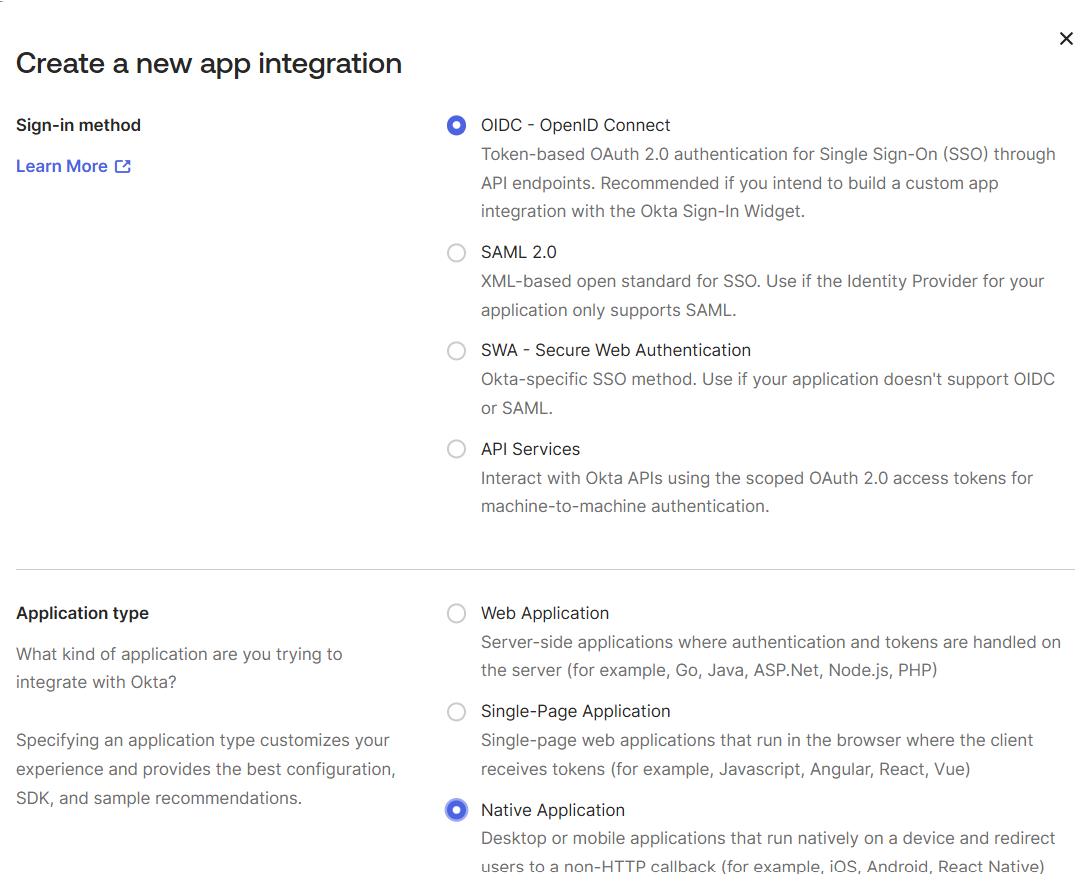
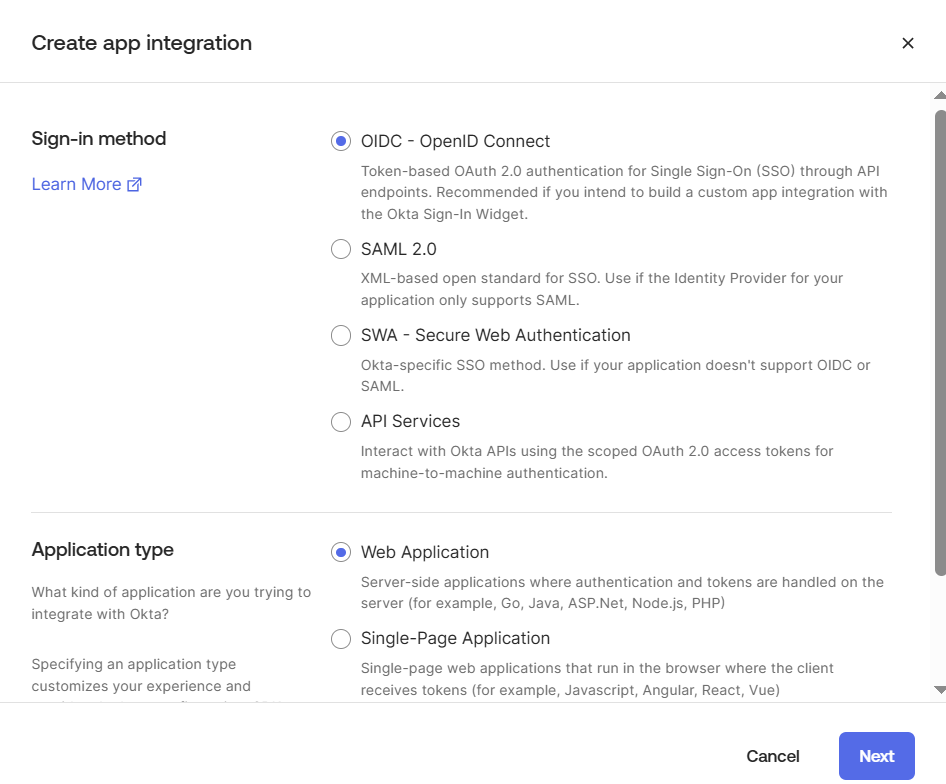
docs(okta): use default AS, add access policy, update JWT flow
- setup: add access policy and rule on the default authorization server
- setup: register Web app instead of Native app, drop password-only auth
- setup: soften Client Credentials note per reviewer feedback
- authorization-code: use /oauth2/default/v1 endpoints for authorize, token, logout
- access-token: use /oauth2/default issuer and JWKS, api://default audience
- access-token: add error message table for 401 cases observed in testing
- add screenshots for access policy and rule
- remove outdated okta-auth-policy.png

Addresses reviewer feedback on PR #969.

diff --git a/assets/kgw-docs/pages/security/okta/access-token.md b/assets/kgw-docs/pages/security/okta/access-token.md
@@ -2,15 +2,18 @@ Protect a route by validating an access token that the client already holds. Kga
 
 ## Before you begin
 
-Complete the [Okta setup]({{< link-hextra path="/security/oauth/okta/setup/" >}}) page. This flow needs the Okta application, the test user, the `Backend`, and the `BackendConfigPolicy` that it creates.
+Complete the [Okta setup]({{< link-hextra path="/security/oauth/okta/setup/" >}}) page. This flow needs the Okta application, the test user, the [access policy and rule on the default authorization server]({{< link-hextra path="/security/oauth/okta/setup/#configure-default-as" >}}), the `Backend`, and the `BackendConfigPolicy` that it creates.
 
 Unlike the authorization code flow, this flow does not need the client secret in a Kubernetes Secret, because the gateway never exchanges an authorization code. It also works over plain HTTP, because it does not use cookies.
+
+> [!NOTE]
+> This guide validates tokens issued by the default custom authorization server at `/oauth2/default`. The Org authorization server issues opaque tokens, which are not JWTs and cannot be validated. If your tokens do not contain the expected `iss` and `aud` claims, confirm that your Okta application requests tokens from the default authorization server, not the Org server.
 
 ## Configure access token validation
 
 Create a `GatewayExtension` that tells the gateway how to validate tokens, and a `TrafficPolicy` that enforces it on a route.
 
-1. Create a GatewayExtension for JWT validation. The `issuer` must match the token's `iss` claim from Okta.
+1. Create a GatewayExtension for JWT validation. The `issuer` must match the token's `iss` claim from Okta, and the `audiences` list must include the token's `aud` claim.
 
 ```yaml
 kubectl apply -f- <<EOF
@@ -21,6 +24,7 @@ metadata:
   namespace: {{< reuse "kgw-docs/snippets/namespace.md" >}}
 spec:
   jwt:
+    validationMode: Strict
     providers:
       - name: okta
         issuer: https://YOUR_OKTA_DOMAIN/oauth2/default
@@ -31,23 +35,22 @@ spec:
               kind: Backend
               name: okta
               namespace: {{< reuse "kgw-docs/snippets/namespace.md" >}}
-            url: https://YOUR_OKTA_DOMAIN/oauth2/v1/keys
+            url: https://YOUR_OKTA_DOMAIN/oauth2/default/v1/keys
         audiences:
-          - YOUR_API_AUDIENCE
+          - api://default
 EOF
 ```
 
 | **Field** | **Description** |
 | --- | --- |
 | `name` | A required, unique name for the provider. The resource is rejected without it. |
-| `issuer` | Must match the `iss` claim in your tokens exactly. Okta's `iss` claim is derived from your Okta domain. Decode a real token and read its `iss` claim rather than assuming. |
+| `issuer` | Must match the `iss` claim in your tokens exactly. Okta's `iss` claim for the default authorization server is `https://YOUR_OKTA_DOMAIN/oauth2/default`. Decode a real token and read its `iss` claim rather than assuming. |
 | `jwks.remote.backendRef` | The network path that the gateway uses to fetch the signing keys. This is the `Backend` for Okta, so the JWKS endpoint does not have to be reachable from outside the cluster. |
-| `jwks.remote.url` | The JWKS URL. Kgateway connects through `backendRef`, and uses this value for the request path and `Host` header. |
-| `audiences` | The accepted values of the `aud` claim. A token is rejected with a `403` response if none of its audiences match. The audience must be the **Identifier** of your Okta authorization server. The default authorization server has audience `api://default`. You can create your own authorization server and use its Identifier. You can decode a token and check its `aud` claim at [jwt.io](https://jwt.io). |
-
+| `jwks.remote.url` | The JWKS URL. For the default authorization server, this is `/oauth2/default/v1/keys`. Kgateway connects through `backendRef`, and uses this value for the request path and `Host` header. |
+| `audiences` | The accepted values of the `aud` claim. A token is rejected with a `403` response if none of its audiences match. For the default authorization server, the audience is `api://default`. You can create your own authorization server and use its Identifier. You can decode a token and check its `aud` claim at [jwt.io](https://jwt.io). |
 
 > [!NOTE]
-> Okta tokens use the audience you specify when requesting the token. The audience must match the authorization server you configured. If your token does not contain the expected audience, update the `audiences` list accordingly.
+> The `validationMode` field is optional. When set to `Strict`, the JWT policy rejects requests that do not carry a valid token. If you omit it, the default behavior may allow unauthenticated requests to pass through, which is not what you want for a protection policy.
 
 2. Create a {{< reuse "kgw-docs/snippets/trafficpolicy.md" >}} that references the JWT GatewayExtension. Make sure that the {{< reuse "kgw-docs/snippets/trafficpolicy.md" >}} is in the same namespace as the HTTPRoute that it targets.
 
@@ -89,12 +92,15 @@ In the `status.ancestors` section of the output, confirm that the `Accepted` and
       type: Attached
 ```
 
+> [!IMPORTANT]
+> If the [authorization code flow]({{< link-hextra path="/security/oauth/okta/authorization-code/" >}}) is also attached to the same route, the OAuth2 policy runs first. Requests from API clients that do not carry a session cookie are redirected to Okta before JWT validation runs. To test JWT validation in isolation, remove the OAuth2 policy temporarily, or point the JWT policy at a route that the OAuth2 policy does not target.
+
 ## Verify {#verify}
 
 Use the verification steps below to confirm that the Access Token Validation flow works.
 
 1. Get the JWKS URI from Okta:
-   - The JWKS endpoint for the default authorization server is `https://YOUR_OKTA_DOMAIN/oauth2/v1/keys`.
+   - The JWKS endpoint for the default authorization server is `https://YOUR_OKTA_DOMAIN/oauth2/default/v1/keys`.
    - Confirm that the value matches the `jwks.remote.url` field that you set on the `GatewayExtension`.
 
 2. Verify that a request without a token is rejected.
@@ -120,29 +126,28 @@ Example output:
 < HTTP/1.1 401 Unauthorized
 ```
 
-3. Obtain a token from Okta with the `password` grant.
+If you instead get a `200 OK` response, the JWT policy is not attached to the route you are testing. Check the policy attachment step above, and confirm that the HTTPRoute name matches.
 
-Request the token from the same Okta address that you set as the `issuer` on the `GatewayExtension`.
+3. Obtain a token from Okta with the `client_credentials` grant.
+
+Request the token from the same Okta address that you set as the `issuer` on the `GatewayExtension`. The token endpoint for the default authorization server is `/oauth2/default/v1/token`.
 
 ```bash
-export TOKEN=$(curl -s -X POST "https://YOUR_OKTA_DOMAIN/oauth2/v1/token" \
+export TOKEN=$(curl -s -X POST "https://YOUR_OKTA_DOMAIN/oauth2/default/v1/token" \
   -d "client_id=YOUR_CLIENT_ID" \
   -d "client_secret=YOUR_CLIENT_SECRET" \
-  -d "username=testuser@example.com" \
-  -d "password=your-password" \
-  -d "grant_type=password" \
+  -d "grant_type=client_credentials" \
   -d "scope=openid email profile" \
-  -d "audience=YOUR_API_AUDIENCE" \
   | jq -r .access_token)
 ```
 
 > [!NOTE]
 > When obtaining a token from Okta:
-> - The `audience` parameter must match the authorization server identifier you configured in Okta and the `audiences` list in your GatewayExtension.
+> - The `audience` parameter is optional for the client credentials grant. If your authorization server requires an audience, add `-d "audience=api://default"`.
 > - The default authorization server has audience `api://default`.
+> - Client credentials requires API Access Management, which is not enabled on every Okta org. If your org does not support this grant, you can request a token through the [authorization code flow]({{< link-hextra path="/security/oauth/okta/authorization-code/" >}}) instead and use that token for the verification steps below.
 
 4. Confirm that the token's `iss` and `aud` claims match your `GatewayExtension`. Decode the payload.
-
 
 ```sh
 echo $TOKEN | jq -rR 'split(".")[1] | @base64d' | jq '{iss, aud}'
@@ -184,7 +189,15 @@ A successful response shows the headers from the httpbin app.
 < HTTP/1.1 200 OK
 ```
 
-A `403` response means that the token is valid but its `aud` claim does not match the `audiences` list. A `401` response means that the token is missing, expired, or signed by an issuer that does not match `issuer`.
+If you get a `403` response, the token is valid but its `aud` claim does not match the `audiences` list. Update the `audiences` field in your `GatewayExtension`.
+
+If you get a `401` response, the token is missing, expired, or signed by an issuer that does not match `issuer`. The error message in the response body tells you which one:
+
+| Message | Meaning |
+| --- | --- |
+| `Jwt is missing` | No `Authorization: Bearer` header was sent. |
+| `Jwt is not in the form of Header.Payload.Signature with two dots and 3 sections` | The token is not a JWT. This usually means it was issued by the Org authorization server as an opaque token, or the header value was truncated. |
+| `Jwt verification fails` | The signature does not match any of the JWKS keys, or the issuer or audience does not match the JWT policy. |
 
 ## Cleanup {#cleanup}
 

diff --git a/assets/kgw-docs/pages/security/okta/setup.md b/assets/kgw-docs/pages/security/okta/setup.md
@@ -9,20 +9,23 @@ When you finish, you choose an authentication flow:
 
 {{< reuse "kgw-docs/snippets/prereq.md" >}}
 
-1. An Okta account with a configured Native Application. At minimum, set the following on the Okta application:
+1. An Okta account with a configured Web Application. At minimum, set the following on the Okta application:
 
    | Setting | Value |
    |---|---|
-   | **Application Type** | Native |
+   | **Application Type** | Web |
    | **Sign-in redirect URIs** | `https://www.example.com/oauth2/redirect` |
    | **Sign-out redirect URIs** | `https://www.example.com` |
-   | **Grant types** | Authorization Code, Refresh Token, Resource Owner Password |
+   | **Grant types** | Authorization Code, Client Credentials |
 
    The redirect URI path is `/oauth2/redirect`, which is the default callback path that kgateway registers. You can override it with `redirectURI` in the `GatewayExtension` if needed.
 
 2. A test user created in your Okta directory.
 
-The authorization code flow requires an **HTTPS listener** on your gateway. Kgateway sets the OAuth2 nonce and code verifier cookies with the `Secure` attribute, so browsers do not return them over plain HTTP and the callback fails CSRF validation. To add one, see [HTTPS listener]({{< link-hextra path="/setup/listeners/https/" >}}). The access token validation flow works over HTTP, because it does not use cookies.
+3. An access policy and rule configured on the default authorization server. Without this policy, the browser login fails with the message that the user is not allowed to access the app. You create this policy later in [Configure the default authorization server](#configure-default-as).
+
+> [!NOTE]
+> Client Credentials requires API Access Management, which is not enabled on every Okta org. If you plan to use the access token validation flow with a Client Credentials token, confirm that your org has API Access Management enabled before you begin.
 
 ## Configure Okta
 
@@ -35,15 +38,12 @@ Create an Okta application, configure the required settings, and add a test user
 
 {{< reuse-image src="img/okta/okta-dashboard.png" >}}
 
-### Create a Native Application
+### Create a Web Application
 
 1. Navigate to **Applications** → **Applications**.
 2. Click **Create App Integration**.
-3. Select **OIDC - OpenID Connect** and **Native Application**.
+3. Select **OIDC - OpenID Connect** and **Web Application**.
 4. Click **Next**.
-
-> [!NOTE]
-> Selecting **Native Application** makes the **Resource Owner Password** grant available, which the Access Token flow requires. The sign-in redirect URIs work the same as for a web application.
 
 {{< reuse-image src="img/okta/okta-create-app.png" >}}
 
@@ -52,10 +52,7 @@ Create an Okta application, configure the required settings, and add a test user
 In the **General Settings** tab, configure the following:
 
 - **Name**: `kgateway-app`
-- **Grant types**: Check **Authorization Code**, **Refresh Token**, and **Resource Owner Password**.
-
-{{< reuse-image src="img/okta/okta-grant-types.png" >}}
-
+- **Grant types**: Check **Authorization Code** and **Client Credentials**.
 - **Sign-in redirect URIs**: Add `https://www.example.com/oauth2/redirect`.
 - **Sign-out redirect URIs**: Add `https://www.example.com`.
 - **Assignments**: Choose **"Skip group assignment for now"**.
@@ -63,13 +60,15 @@ In the **General Settings** tab, configure the following:
 
 {{< reuse-image src="img/okta/okta-redirect-uri.png" >}}
 
+> [!NOTE]
+> This guide registers `kgateway-app` as a Web application, not a Native application. Kgateway is a server-side confidential client that can hold the client secret and perform the code exchange, so the Web application flow applies. This also means you do not need to enable password-only authentication.
+
 ### Copy the Client ID and Client Secret
 
 1. After saving, you'll see the application details page.
 2. Copy the **Client ID** and **Client Secret** from the **Client Credentials** section. You'll need these for the kgateway GatewayExtension.
 
 {{< reuse-image src="img/okta/okta-client-credentials.png" >}}
-
 
 > [!NOTE]
 > The Client Secret is only shown once after creation. If you lose it, you can regenerate it, but this will invalidate any existing tokens.
@@ -89,26 +88,35 @@ In the **General Settings** tab, configure the following:
 
 {{< reuse-image src="img/okta/okta-users-list.png" >}}
 
-### Configure the Authentication Policy
+### Configure the default authorization server {#configure-default-as}
 
-To use the `password` grant, Okta's sign-on policy must allow password-only authentication. If your default policy enforces MFA, update the rule:
+Okta provides two authorization servers that matter for this guide: the Org authorization server and the default custom authorization server. The Org authorization server issues opaque tokens, which the gateway's JWT policy cannot validate. This guide uses the default authorization server at `/oauth2/default`, which issues JWTs that the gateway can validate.
 
-1. In the Okta Admin Console, go to **Security** → **Authentication**.
-2. Click the **"App sign-in"** tab.
-3. Click the **"Default"** policy.
-4. Click **"Edit"** (pencil icon) on the **"Catch-all Rule"**.
-5. Under **"User must authenticate with"**, select **"Any 1 factor type"**.
-6. Under **"Authentication methods"**, select **"Allow specific authentication methods"** and ensure only **"Password"** is checked.
-7. Click **"Update Rule"**.
+1. In the Okta Admin Console, navigate to **Security** → **API**.
+2. Open the **Authorization Servers** tab.
+3. Click **default**.
+4. Go to the **Access Policies** tab.
+5. Click **Add Policy** and configure the following:
+   - **Name**: `kgateway-access-policy`
+   - **Assign to**: **The following clients**, then select `kgateway-app`
+6. Click **Create Policy**.
 
-{{< reuse-image src="img/okta/okta-auth-policy.png" >}}
+{{< reuse-image src="img/okta/okta-access-policy.png" >}}
 
-> [!NOTE]
-> This change is only required for testing the Access Token flow. In production, you may want a stricter policy.
+7. On the new policy, click **Add rule** and configure the following:
+   - **Rule Name**: `kgateway-default-rule`
+   - **Grant type**: Check **Authorization Code**. Check **Client Credentials** too if you plan to use the access token validation flow.
+   - **User is**: **Any user assigned the app**
+   - **Scopes requested**: **Any scopes**
+8. Click **Create Rule**.
+
+{{< reuse-image src="img/okta/okta-access-rule.png" >}}
+
+After you save the policy and rule, the default authorization server issues tokens for the `kgateway-app` client, and the issuer, audience, and JWKS endpoints all resolve under `/oauth2/default`.
 
 ## Connect kgateway to Okta
 
-Both authentication flows need a network path from the gateway to Okta. Create these two resources first, whichever flow you use.
+Both authentication flows need a network path from the gateway to Okta. Create these two resources first, whichever flow you use. All URLs in this section, and in the flow guides that follow, resolve under `/oauth2/default` on your Okta domain.
 
 ### Create a Backend for Okta {#create-backend}
 
@@ -135,7 +143,7 @@ Replace `YOUR_OKTA_DOMAIN` with your Okta domain (such as `integrator-6003780.ok
 > [!NOTE]
 > This address is separate from the public Okta URL that you configure on the `GatewayExtension` in the next steps. The `Backend` is the network path that the gateway uses for token exchange and OIDC discovery, and it does not have to be reachable from the browser.
 
-## Configure TLS for the Okta Backend {#configure-tls}
+### Configure TLS for the Okta Backend {#configure-tls}
 
 Since Okta uses a public, trusted certificate, you can use the system's trusted CA certificates. Create a `BackendConfigPolicy` to configure TLS.
 
@@ -165,7 +173,7 @@ Okta is configured and the gateway can reach it. Now protect a route with the fl
 
 {{< cards >}}
 {{< card link="../authorization-code" title="Authorization code flow" subtitle="Redirect browser users to Okta to log in, and store their tokens in session cookies." >}}
-{{< card link="../access-token" title="Access token validation" subtitle="Validate a token that an API client already holds, and reject requests without one." >}}
+{{< card link="../access-token" title="Access token validation" subtitle="Validate a JWT that an API client already holds, and reject requests without one." >}}
 {{< /cards >}}
 
 ## Cleanup {#cleanup}

diff --git a/assets/kgw-docs/pages/security/okta/authorization-code.md b/assets/kgw-docs/pages/security/okta/authorization-code.md
@@ -2,7 +2,7 @@ Protect a route with the OAuth2 authorization code flow. Unauthenticated browser
 
 ## Before you begin
 
-1. Complete the [Okta setup]({{< link-hextra path="/security/oauth/okta/setup/" >}}) page. This flow needs the Okta application, the test user, the `Backend`, and the `BackendConfigPolicy` that it creates.
+1. Complete the [Okta setup]({{< link-hextra path="/security/oauth/okta/setup/" >}}) page. This flow needs the Okta application, the test user, the [access policy and rule on the default authorization server]({{< link-hextra path="/security/oauth/okta/setup/#configure-default-as" >}}), the `Backend`, and the `BackendConfigPolicy` that it creates.
 
 2. Make sure your gateway has an **HTTPS listener**. Kgateway sets the OAuth2 nonce and code verifier cookies with the `Secure` attribute, so browsers do not return them over plain HTTP and the callback fails CSRF validation. To add one, see [HTTPS listener]({{< link-hextra path="/setup/listeners/https/" >}}). The access token validation flow works over HTTP, because it does not use cookies.
 
@@ -21,7 +21,9 @@ Create the Kubernetes Secret that holds the Okta client secret, a `GatewayExtens
 2. Create a GatewayExtension that holds everything the gateway needs to talk to Okta. The GatewayExtension is independent of routing, so you can reuse the same extension across multiple {{< reuse "kgw-docs/snippets/trafficpolicy.md" >}} resources.
 
 > [!NOTE]
-> Okta's `iss` claim is derived from your Okta domain. Use the same domain consistently across `issuerURI` and the endpoint fields. The `redirectURI` must match the exact value you register in Okta's **Sign-in redirect URIs**. The gateway still reaches Okta through `backendRef`, so the two do not have to be the same address.
+> This guide uses the default custom authorization server at `/oauth2/default`, not the Org authorization server. The Org authorization server issues opaque tokens that the gateway's JWT policy cannot validate, while the default authorization server issues JWTs. All of the issuer and endpoint values below must resolve under `/oauth2/default`. If you also plan to use the [access token validation]({{< link-hextra path="/security/oauth/okta/access-token/" >}}) flow, keep the issuer and audience consistent between both pages.
+>
+> The `redirectURI` must match the exact value you register in Okta's **Sign-in redirect URIs**. The gateway still reaches Okta through `backendRef`, so the two do not have to be the same address.
 
 ```yaml
 kubectl apply -f- <<EOF
@@ -38,9 +40,9 @@ spec:
       name: okta
       namespace: {{< reuse "kgw-docs/snippets/namespace.md" >}}
     issuerURI: https://YOUR_OKTA_DOMAIN/oauth2/default
-    authorizationEndpoint: https://YOUR_OKTA_DOMAIN/oauth2/v1/authorize
-    tokenEndpoint: https://YOUR_OKTA_DOMAIN/oauth2/v1/token
-    endSessionEndpoint: https://YOUR_OKTA_DOMAIN/oauth2/v1/logout
+    authorizationEndpoint: https://YOUR_OKTA_DOMAIN/oauth2/default/v1/authorize
+    tokenEndpoint: https://YOUR_OKTA_DOMAIN/oauth2/default/v1/token
+    endSessionEndpoint: https://YOUR_OKTA_DOMAIN/oauth2/default/v1/logout
     redirectURI: https://www.example.com/oauth2/redirect
     scopes:
       - openid
@@ -57,9 +59,11 @@ EOF
 | --- | --- |
 | `backendRef` | Points to the `Backend` from [Okta setup]({{< link-hextra path="/security/oauth/okta/setup/#create-backend" >}}). Kgateway uses it to reach Okta for token exchange and OIDC discovery. |
 | `issuerURI` | Triggers OIDC discovery. Kgateway fetches `/.well-known/openid-configuration` from this URL and fills in the authorization, token, and end-session endpoints. If you also set those explicitly (as in the example), the explicit values win. Setting both is fine if you want the config to be readable without relying on discovery. |
+| `authorizationEndpoint` | The Okta endpoint that the gateway redirects browser users to for login. For the default authorization server, this is `/oauth2/default/v1/authorize`. |
+| `tokenEndpoint` | The Okta endpoint that the gateway calls to exchange the authorization code for tokens. For the default authorization server, this is `/oauth2/default/v1/token`. |
 | `redirectURI` | The callback URL that kgateway sends to Okta as the `redirect_uri` parameter, and the path that the gateway intercepts to complete the code exchange. If you omit this field, it defaults to `<request-scheme>://<host>/oauth2/redirect` derived from the original request, which is easy to mismatch with the value registered in Okta. Set it explicitly. |
 | `scopes` | Defaults to `user` if not set. For OIDC you need `openid` in the list. Add `email` and `profile` if your app needs those claims. |
-| `endSessionEndpoint` | Handles single logout. When a user hits `/logout`, kgateway clears their session cookies and sends their browser to this URL so Okta ends the session too. This is RP-initiated logout in the OIDC spec. Only set it if `openid` is in your scopes. |
+| `endSessionEndpoint` | Handles single logout. When a user hits `/logout`, kgateway clears their session cookies and sends their browser to this URL so Okta ends the session too. This is RP-initiated logout in the OIDC spec. Only set it if `openid` is in your scopes. For the default authorization server, this is `/oauth2/default/v1/logout`. |
 | `clientSecretRef.name` | Must match the Secret name from the previous step. Kgateway reads the `client-secret` key inside that Secret. |
 
 3. Create a {{< reuse "kgw-docs/snippets/trafficpolicy.md" >}} that references the extension by name. This policy tells the gateway to enforce the login flow on a specific route.
@@ -151,11 +155,11 @@ curl -vik "https://localhost:8443/headers" -H "host: www.example.com"
 {{% /tab %}}
 {{< /tabs >}}
 
-Example output. Note that the `redirect_uri` parameter matches the value that you registered on the Okta application.
+Example output. Note that the `redirect_uri` parameter matches the value that you registered on the Okta application, and the authorization endpoint is under `/oauth2/default`.
 
 ```text
 < HTTP/2 302
-< location: https://YOUR_OKTA_DOMAIN/oauth2/v1/authorize?client_id=YOUR_CLIENT_ID&...&redirect_uri=https%3A%2F%2Fwww.example.com%2Foauth2%2Fredirect
+< location: https://YOUR_OKTA_DOMAIN/oauth2/default/v1/authorize?client_id=YOUR_CLIENT_ID&...&redirect_uri=https%3A%2F%2Fwww.example.com%2Foauth2%2Fredirect
 < set-cookie: OauthNonce-...;path=/;Max-Age=600;secure;HttpOnly
 ```
 
@@ -164,6 +168,8 @@ Example output. Note that the `redirect_uri` parameter matches the value that yo
 3. Log in with the test user credentials you created in the [Okta setup]({{< link-hextra path="/security/oauth/okta/setup/#create-test-user" >}}).
 
 4. Verify that Okta returns you to the route and that the response shows the httpbin output. The gateway exchanged the authorization code for tokens and stored them in session cookies.
+
+If Okta shows the message that the user is not allowed to access the app, the access policy or rule on the default authorization server is missing or does not include `kgateway-app`. See [Configure the default authorization server]({{< link-hextra path="/security/oauth/okta/setup/#configure-default-as" >}}).
 
 If you get a `401` response with `CSRF token validation failed` in the gateway logs, you sent the request over HTTP. Retry over HTTPS.
 
@@ -256,7 +262,7 @@ spec:
   oauth2:
     # ... rest of the provider config ...
     jwt:
-      jwksURI: https://YOUR_OKTA_DOMAIN/oauth2/v1/keys
+      jwksURI: https://YOUR_OKTA_DOMAIN/oauth2/default/v1/keys
       idToken:
         claimsToHeaders:
           - name: sub
@@ -323,9 +329,9 @@ spec:
       name: okta
       namespace: {{< reuse "kgw-docs/snippets/namespace.md" >}}
     issuerURI: https://YOUR_OKTA_DOMAIN/oauth2/default
-    authorizationEndpoint: https://YOUR_OKTA_DOMAIN/oauth2/v1/authorize
-    tokenEndpoint: https://YOUR_OKTA_DOMAIN/oauth2/v1/token
-    endSessionEndpoint: https://YOUR_OKTA_DOMAIN/oauth2/v1/logout
+    authorizationEndpoint: https://YOUR_OKTA_DOMAIN/oauth2/default/v1/authorize
+    tokenEndpoint: https://YOUR_OKTA_DOMAIN/oauth2/default/v1/token
+    endSessionEndpoint: https://YOUR_OKTA_DOMAIN/oauth2/default/v1/logout
     redirectURI: https://www.example.com/oauth2/redirect
     scopes:
       - openid
